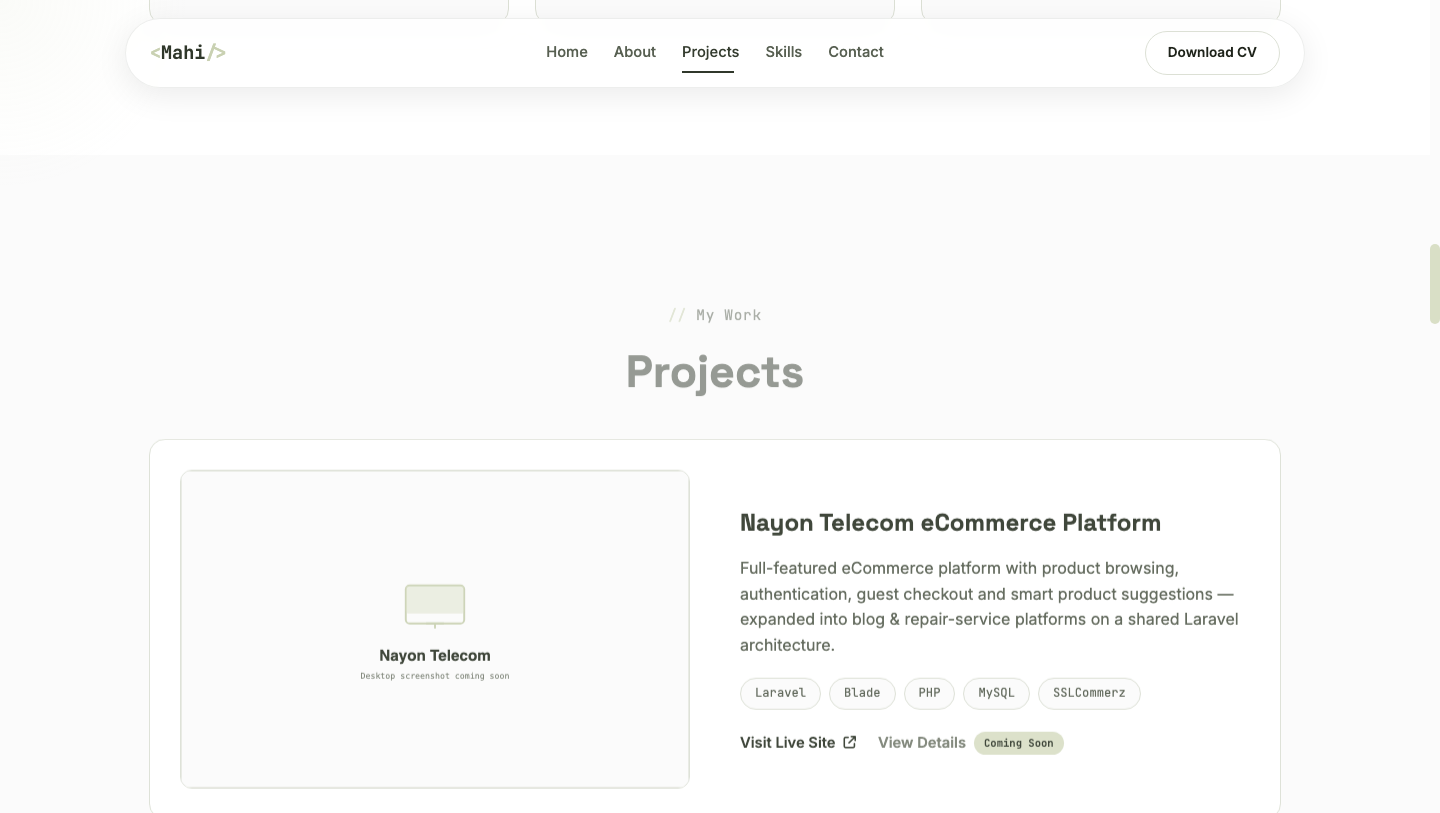
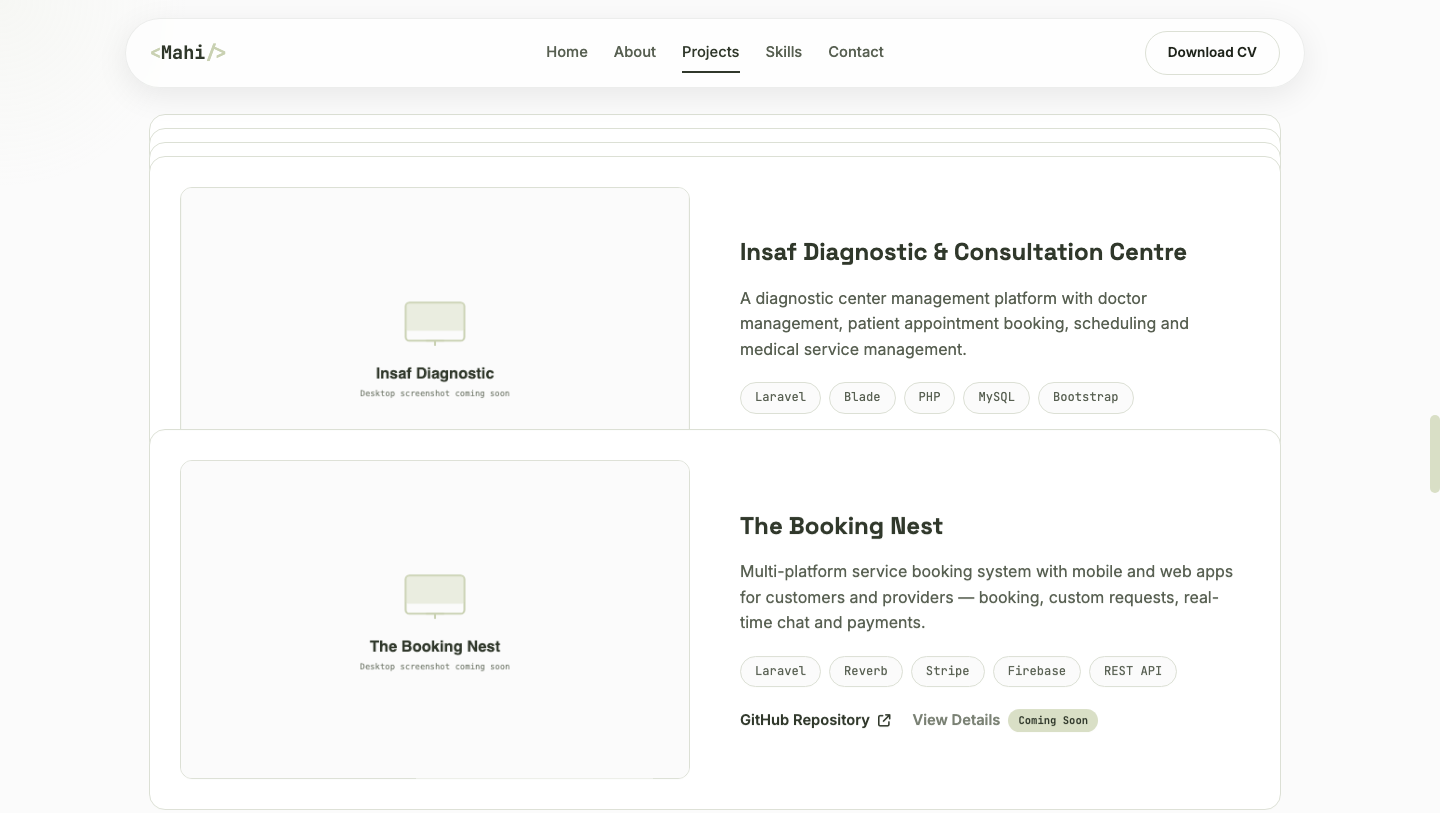
Enhance project display with sticky rows and improved hover effects

diff --git a/css/style.css b/css/style.css
@@ -464,12 +464,18 @@ button { font: inherit; cursor: pointer; border: none; background: none; }
    PROJECTS (full-width stacked rows)
    ========================================================================== */
 .projects { background: var(--bg); }
+
+/* vertical list of full-width project rows — each sticks a little lower than
+   the last, so as you scroll, cards pile up behind one another. */
 .projects__list {
   display: flex;
   flex-direction: column;
-  gap: 34px;
+  --stack-top: clamp(100px, 14vh, 140px);
 }
 .project-row {
+  position: sticky;
+  top: var(--stack-top);
+  margin-bottom: clamp(1.5rem, 10vh, 6rem);
   display: grid;
   grid-template-columns: 1fr 1fr;
   gap: 50px;
@@ -478,11 +484,18 @@ button { font: inherit; cursor: pointer; border: none; background: none; }
   border: 1px solid var(--border);
   border-radius: var(--radius);
   padding: 30px;
-  transition: var(--transition);
+  transition: transform 0.5s cubic-bezier(.16,1,.3,1), box-shadow 0.4s ease, border-color 0.4s ease;
 }
+.project-row:nth-child(2) { top: calc(var(--stack-top) + 14px); }
+.project-row:nth-child(3) { top: calc(var(--stack-top) + 28px); }
+.project-row:nth-child(4) { top: calc(var(--stack-top) + 42px); }
+.project-row:nth-child(5) { top: calc(var(--stack-top) + 56px); }
+.project-row:nth-child(6) { top: calc(var(--stack-top) + 70px); }
+.project-row:last-child { margin-bottom: 0; }
 .project-row:hover {
+  transform: translateY(-6px);
   border-color: var(--hover);
-  box-shadow: 0 20px 40px rgba(48,56,43,0.08);
+  box-shadow: 0 24px 50px rgba(48,56,43,0.14);
 }
 .project-row__thumb {
   aspect-ratio: 16 / 10;
@@ -494,9 +507,11 @@ button { font: inherit; cursor: pointer; border: none; background: none; }
 .project-row__thumb img {
   width: 100%; height: 100%;
   object-fit: cover;
-  transition: transform 0.5s ease;
+  transform: scale(1.08);
+  transition: transform 1.2s cubic-bezier(.16,1,.3,1);
 }
-.project-row:hover .project-row__thumb img { transform: scale(1.05); }
+.project-row.active .project-row__thumb img { transform: scale(1); }
+.project-row:hover .project-row__thumb img { transform: scale(1.05); transition: transform 0.5s ease; }
 
 .project-row__body h3 {
   font-family: var(--font-heading);
@@ -724,7 +739,13 @@ button { font: inherit; cursor: pointer; border: none; background: none; }
   .services__grid { grid-template-columns: repeat(2, 1fr); }
   .skills__grid, .timeline-grid { grid-template-columns: 1fr; gap: 50px; }
   .contact__grid { grid-template-columns: repeat(2, 1fr); }
-  .project-row { grid-template-columns: 1fr; gap: 26px; }
+  .projects__list { gap: 26px; }
+  .project-row {
+    position: static;
+    grid-template-columns: 1fr;
+    gap: 26px;
+    margin-bottom: 0;
+  }
   .skill-icon-grid { grid-template-columns: repeat(4, 1fr); }
 }
 
